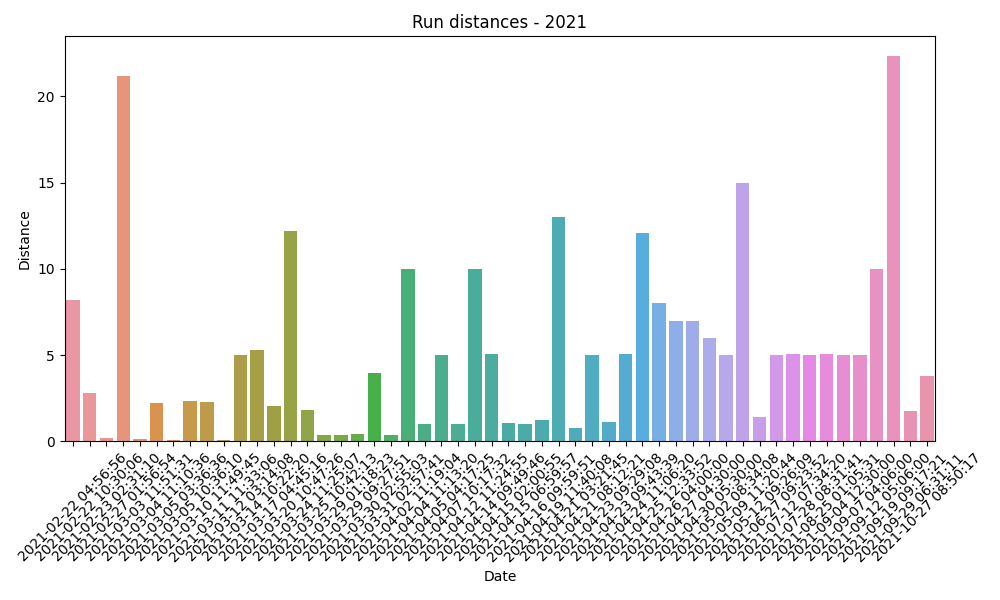
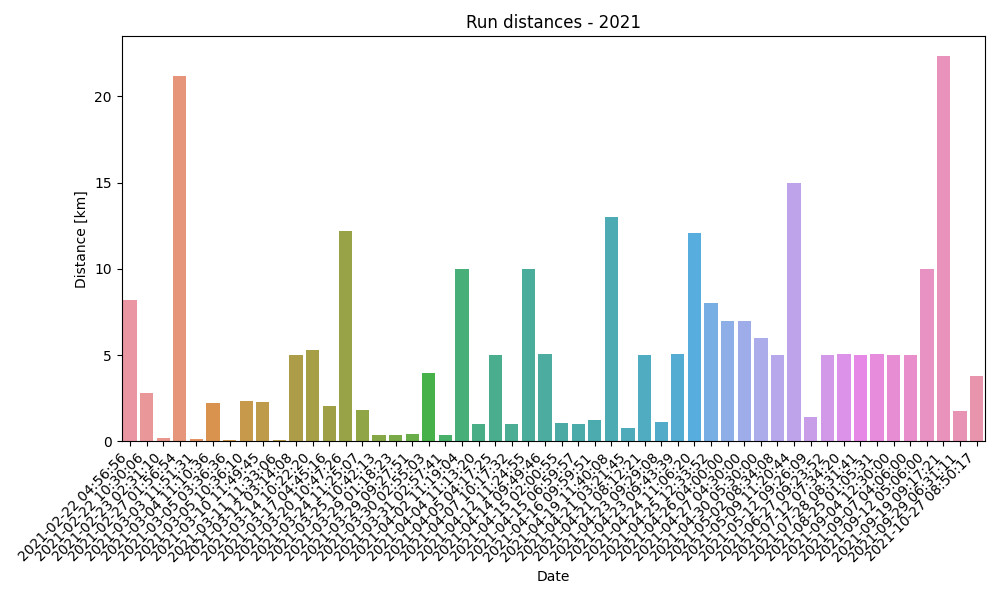
chore: fix xlabels

diff --git a/src/plot.py b/src/plot.py
@@ -72,15 +72,18 @@ def annual_distances_bar_plot(df, year, activity_type) -> None:
     plt.figure(figsize=(10, 6))
     sns.barplot(x=df.index, y=df["Distance"].values)
     plt.xlabel("Date")
-    plt.ylabel("Distance")
+    plt.ylabel("Distance [km]")
     plt.title(f"{activity_type} distances - {year}")
 
+    # print(df.index)
+
     # TODO: fix x labels and xaxis data offset
-    # plt.xticks(rotation=45)
-    plt.xticks(  # ticks=df.index,
-        # labels=df.index.strftime("%Y-%m-%d"),
-        rotation=45
-    )
+    plt.xticks(rotation=45, ha="right")
+    # plt.xticks(
+    #     ticks=df.index,
+    #     # labels=df.index,  # .strftime("%Y-%m-%d"),
+    #     rotation=45
+    # )
 
     plt.tight_layout()
     # plt.show()
